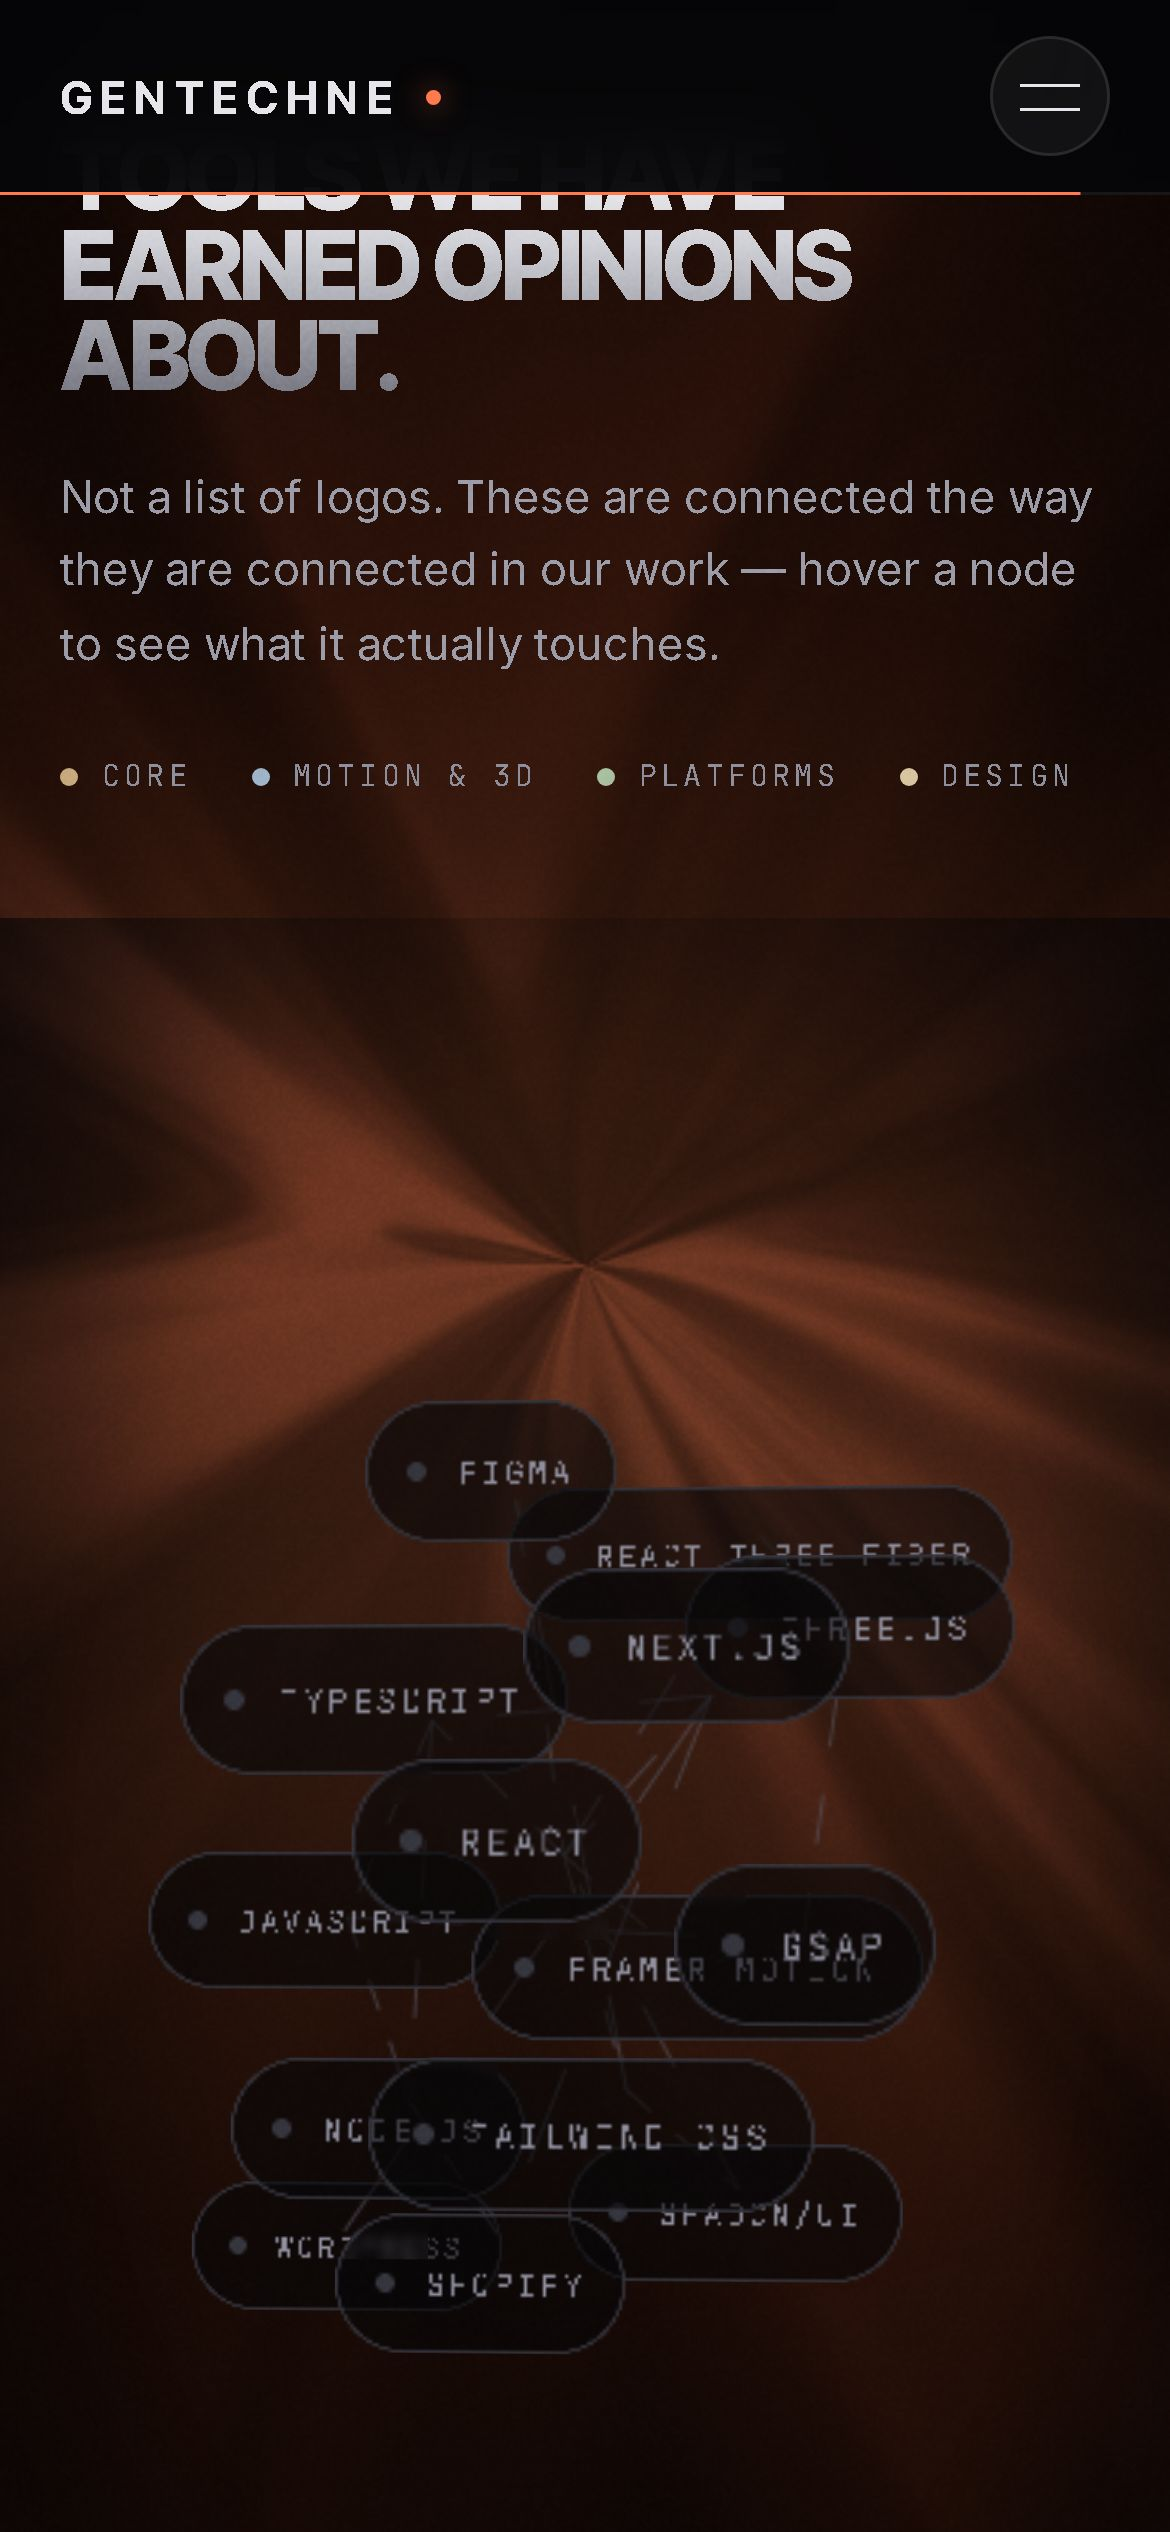
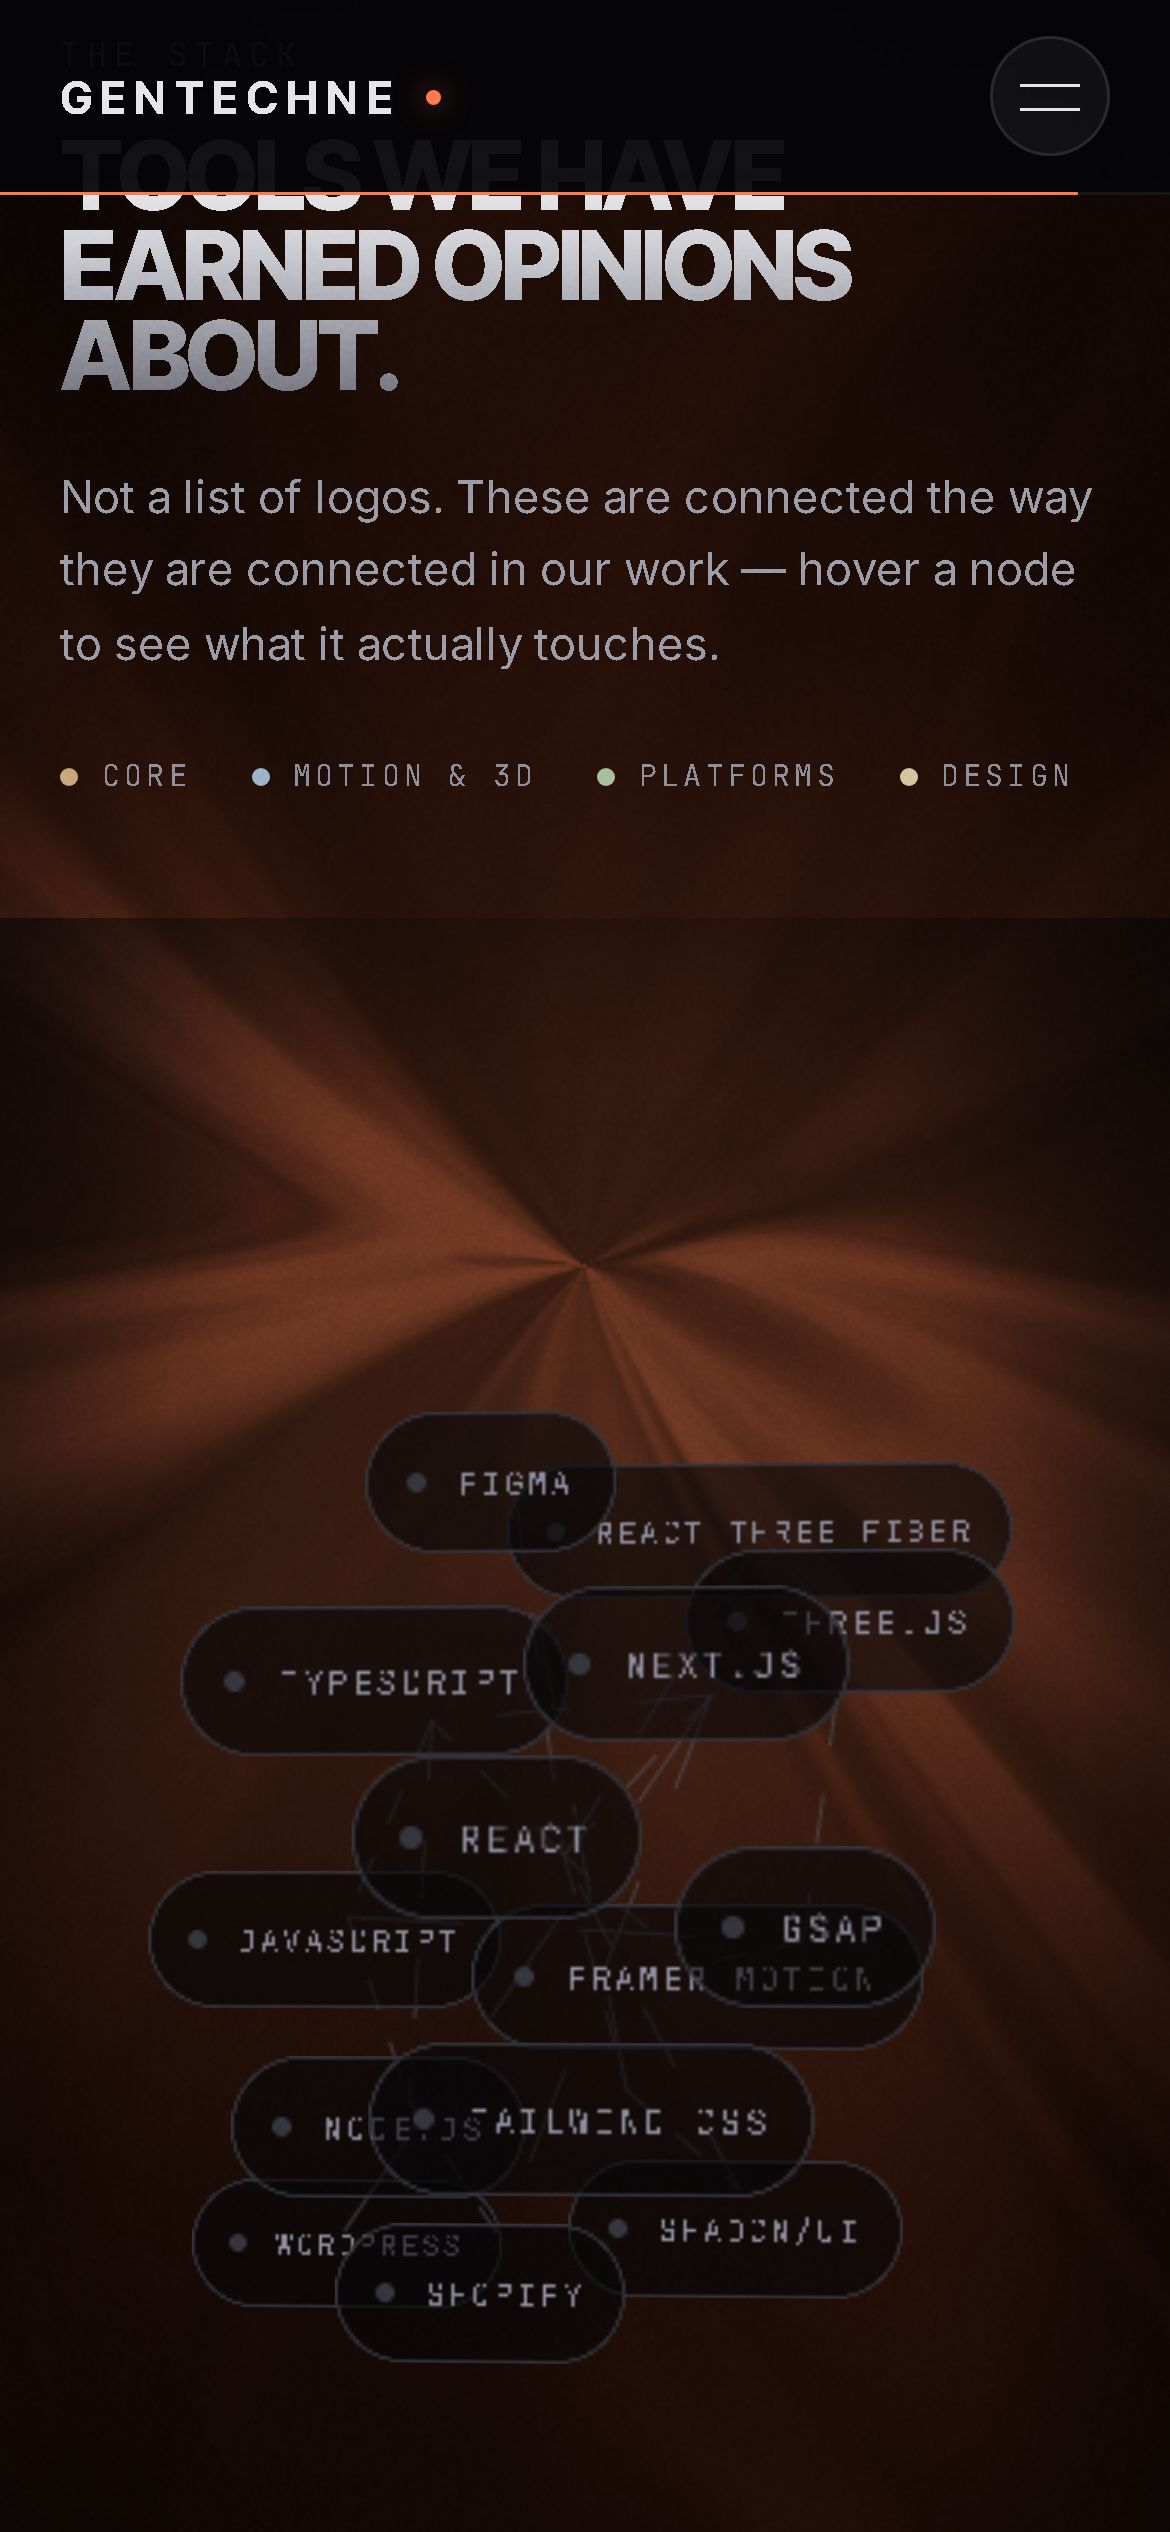
all done

diff --git a/frontend/src/styles/index.css b/frontend/src/styles/index.css
@@ -478,3 +478,50 @@ html[data-reduced-motion='true'] .line-mask > * {
     --hero-vw: 16px;
   }
 }
+
+/*
+ * WILL-CHANGE IS OFF ON PHONES
+ * ----------------------------
+ * `will-change: transform` does not make an element cheaper to animate — it
+ * hands it its own compositor layer and KEEPS it there for the element's whole
+ * life, animating or not. Counted at DPR 3 on a 390x844 screen this page was
+ * asking for 180MB of backing store across 149 such elements, and 388MB
+ * document-wide. iOS Safari kills a tab well inside that, which is what the
+ * white screen and the reload were: a renderer crash, worst while scrolling
+ * fast, when the compositor has to rasterise many of those layers at once.
+ *
+ * Dropping the hint does not stop anything animating. A browser still promotes
+ * an element while a transform is actually running; it just stops holding a
+ * layer open for every one of them in advance.
+ *
+ * !important is needed on purpose: several of these are inline styles, and a
+ * stylesheet cannot beat an inline declaration any other way.
+ */
+@media (max-width: 767px) {
+  [class*="will-change"],
+  [style*="will-change"] {
+    will-change: auto !important;
+  }
+}
+
+/*
+ * NO BACKDROP-FILTER ON PHONES
+ * ----------------------------
+ * `backdrop-filter` is not a one-off cost. The compositor has to snapshot
+ * whatever sits behind the element and blur it again every frame the backdrop
+ * moves — which, on a scrolling page, is every frame. There are 37 of these,
+ * and during a fast scroll several are on screen at once.
+ *
+ * On a near-black theme the blur is doing very little work visually: each of
+ * these elements already carries its own translucent background, which is what
+ * actually separates it from the page. Turning the filter off costs a subtle
+ * softening and buys back the most expensive per-frame operation on the page.
+ */
+@media (max-width: 767px) {
+  [class*="backdrop-blur"],
+  [style*="backdrop-filter"],
+  [style*="backdropFilter"] {
+    -webkit-backdrop-filter: none !important;
+    backdrop-filter: none !important;
+  }
+}
